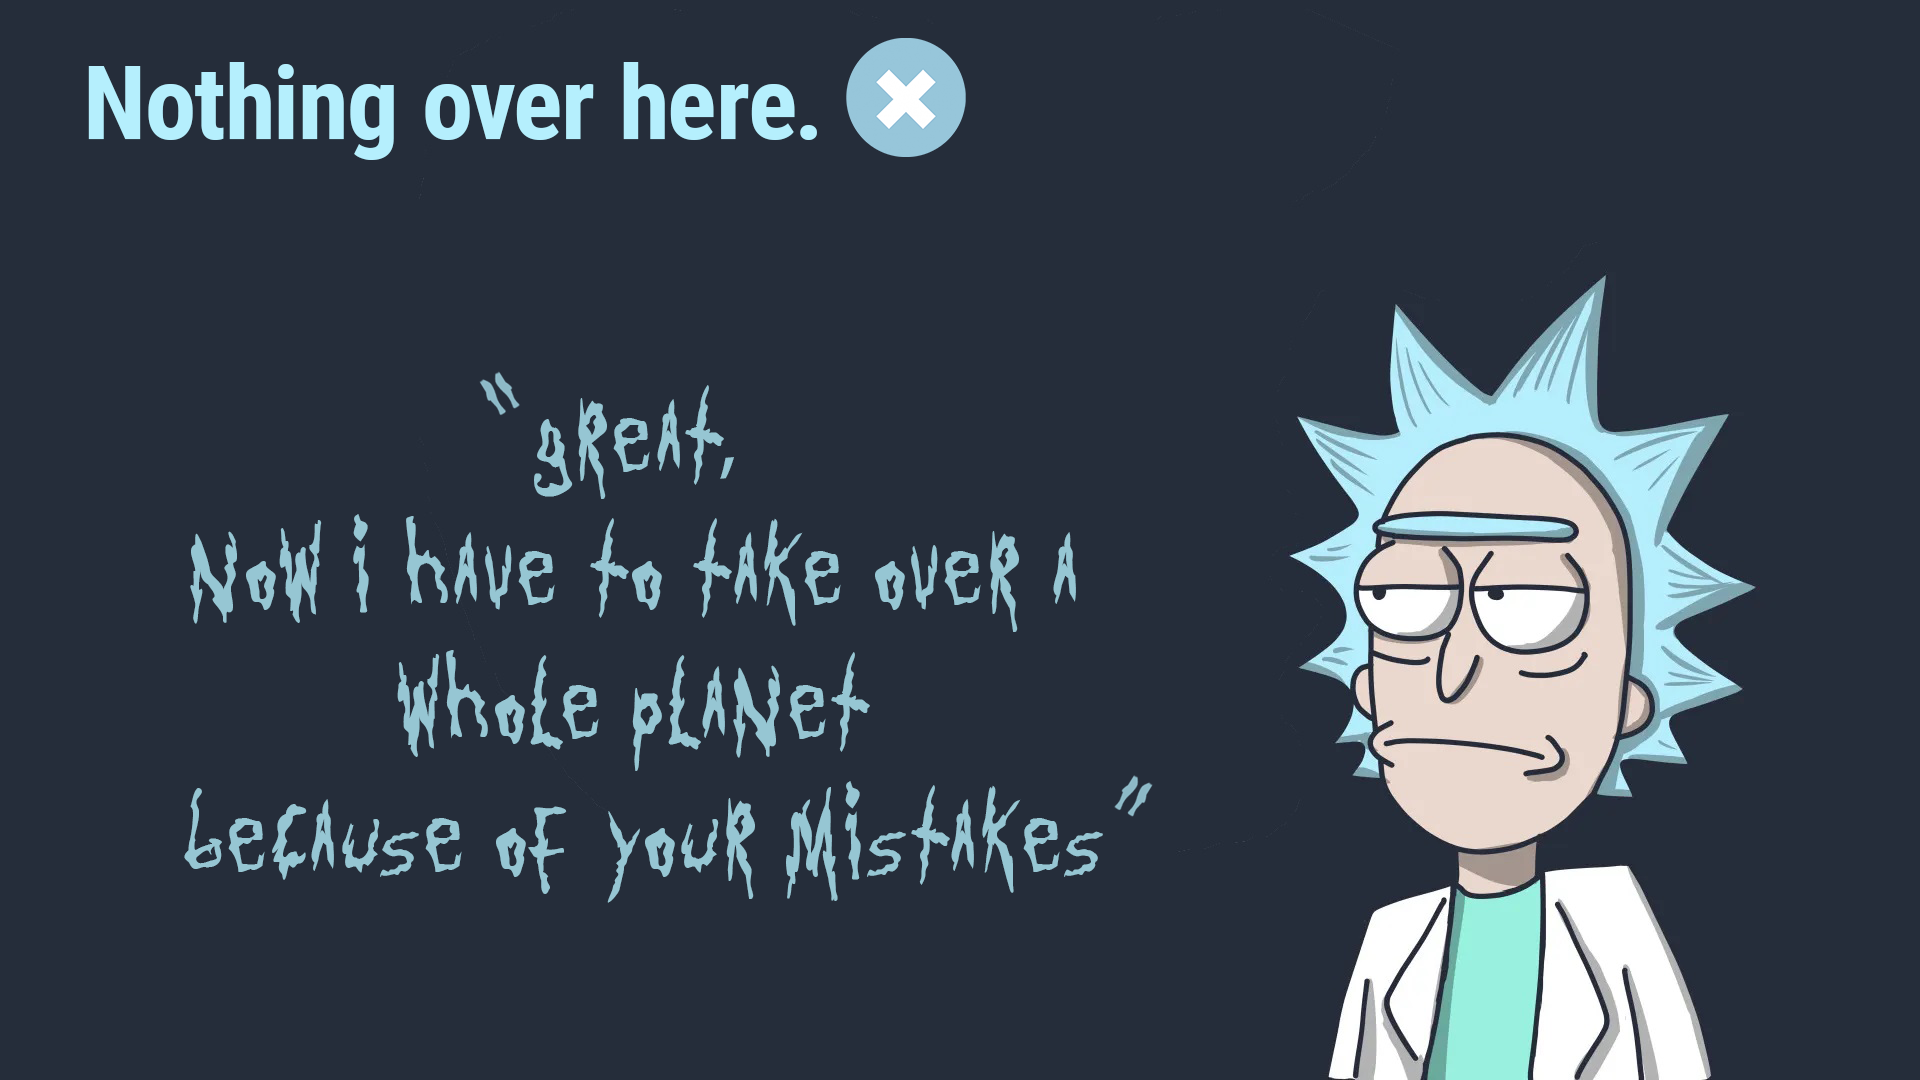
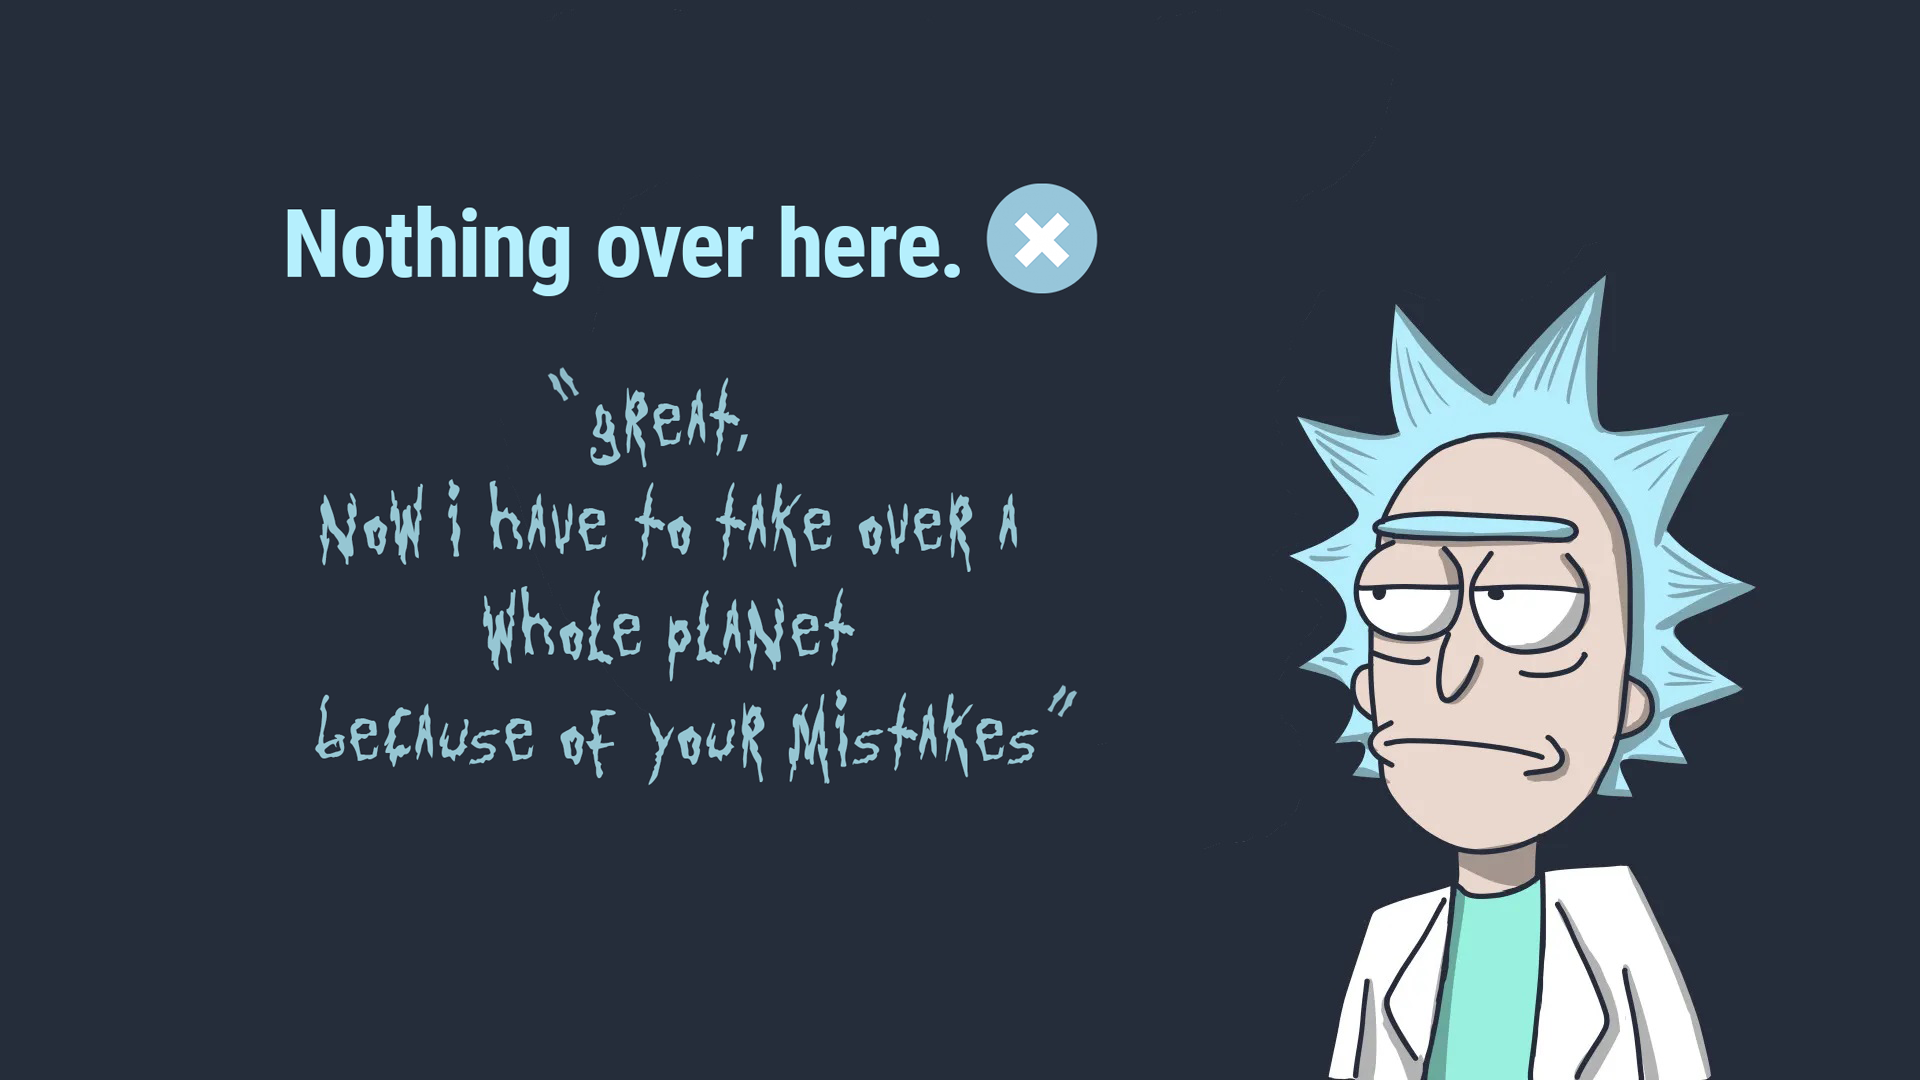
ErrorPage listo

Changed region(s): [[0.0938, 0.3361, 0.5938, 0.825], [0.0312, 0.0306, 0.5, 0.1528], [0.125, 0.1528, 0.5938, 0.275]]

diff --git a/Client/src/Views/ErrorPage.module.css b/Client/src/Views/ErrorPage.module.css
@@ -1,10 +1,7 @@
 .error {
-    min-width: 100vw;
-    min-height: 100vh;
-}
-
-.error img {
-    width: 100%;
-    height: 100%;
-    object-fit: cover;
+  background: url(../Images/errorpage.png);
+  background-position: center;
+  background-repeat: no-repeat;
+  background-size: fill;
+  height: calc(100vh - 60px);
 }

diff --git a/Client/src/Views/ErrorPage.jsx b/Client/src/Views/ErrorPage.jsx
@@ -5,7 +5,8 @@ import style from "./ErrorPage.module.css"
 const ErrorPage = () => {
   return (
     <div className={style.error}>
-      <img src={background} alt="Rick with a message expressing the frustration of finding nothing."/>
+      <div className={style.image}>
+      </div>
     </div>
   )
 }
